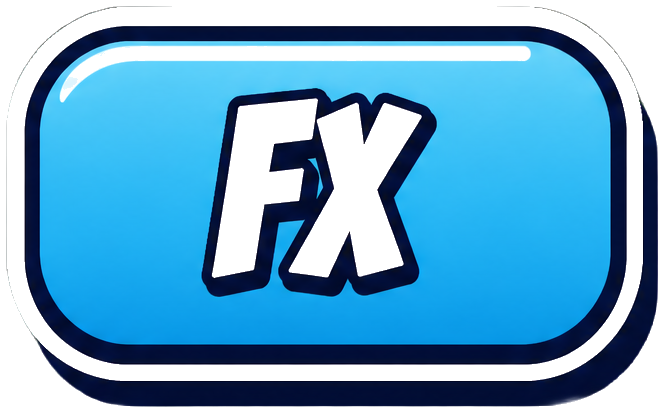
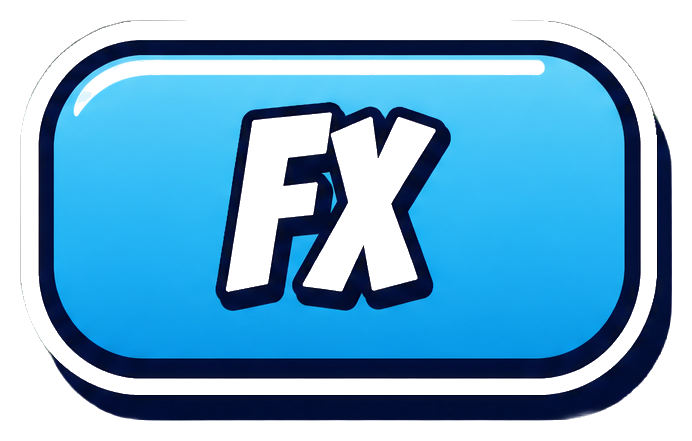
v0.7.7.48 — PAD/Voice/FX 좌상단 잘림 완전 fix
- PNG re-split with padding 6 → 20px → 666x413 → 694x441 (모서리에 더 큰 transparent buffer)
- .icon-btn.png-skin 박스 90x60 → 96x64 + padding 3 → 5px → 흰 sticker outer가 박스 가장자리에서 더 멀리 떨어짐

Changed region(s): [[0.0301, 0.0, 0.994, 0.9879], [0.3012, 0.2034, 0.6627, 0.7264], [0.512, 0.5521, 0.5422, 0.6102]]

diff --git a/index.html b/index.html
@@ -1684,14 +1684,14 @@
     padding: 0 !important;
     overflow: visible !important;              /* PNG drop-shadow / sticker outline isn't clipped */
   }
-  /* Icon utility buttons: bigger box + padding so PNG's white sticker outer
-     never touches the box edge (no top-left/top-right clipping). */
+  /* Icon utility buttons: generous box + padding so PNG's white sticker outer
+     never touches the box edge (no clipping at any corner). */
   .icon-btn.png-skin {
-    width: 90px !important;
-    height: 60px !important;
-    min-width: 90px !important;
-    min-height: 60px !important;
-    padding: 3px !important;
+    width: 96px !important;
+    height: 64px !important;
+    min-width: 96px !important;
+    min-height: 64px !important;
+    padding: 5px !important;
     background-origin: padding-box !important;
     background-clip: padding-box !important;
   }
